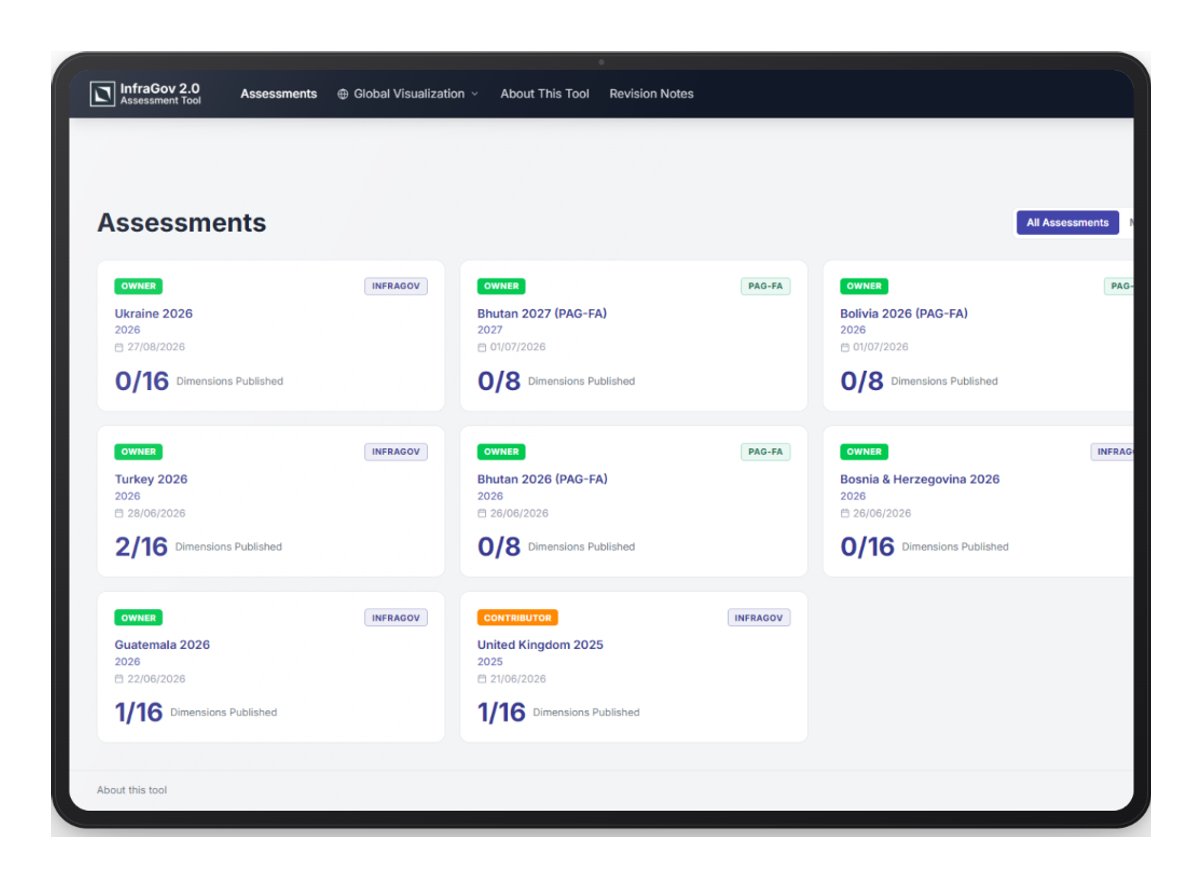
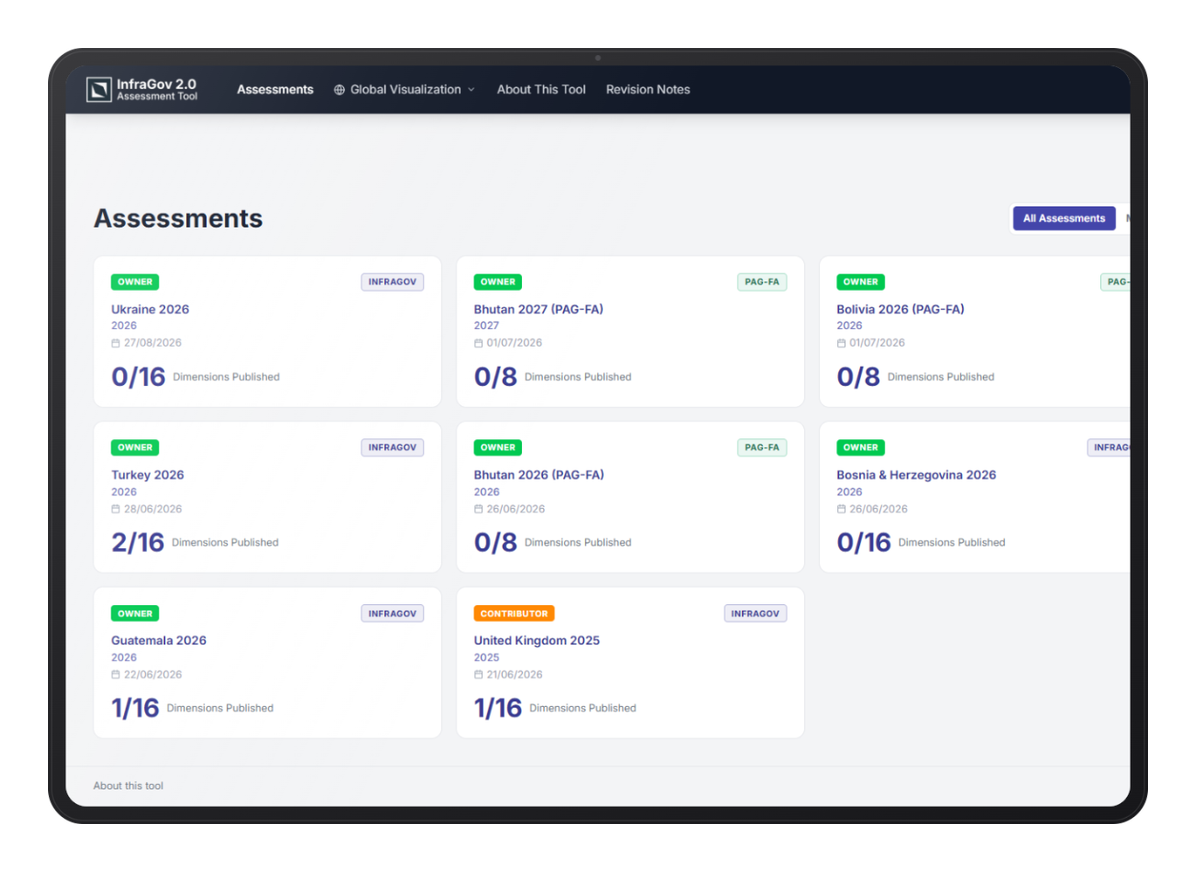
Swap in shadow-free tablet covers

diff --git a/components/WorkCarousel.tsx b/components/WorkCarousel.tsx
@@ -86,7 +86,7 @@ export default function WorkCarousel() {
               }
               tabIndex={visible ? 0 : -1}
               onClick={() => (isActive ? setOpen(true) : setActive(i))}
-              className="absolute left-1/2 top-1/2 aspect-[1200/886] w-[86vw] max-w-[950px] transition-[transform,opacity] duration-[550ms] ease-out will-change-transform"
+              className="absolute left-1/2 top-1/2 aspect-[1196/872] w-[86vw] max-w-[950px] transition-[transform,opacity] duration-[550ms] ease-out will-change-transform"
               style={{
                 transform: `translate(-50%, -50%) translateX(${d * 62}%) scale(${
                   isActive ? 1 : 0.78
